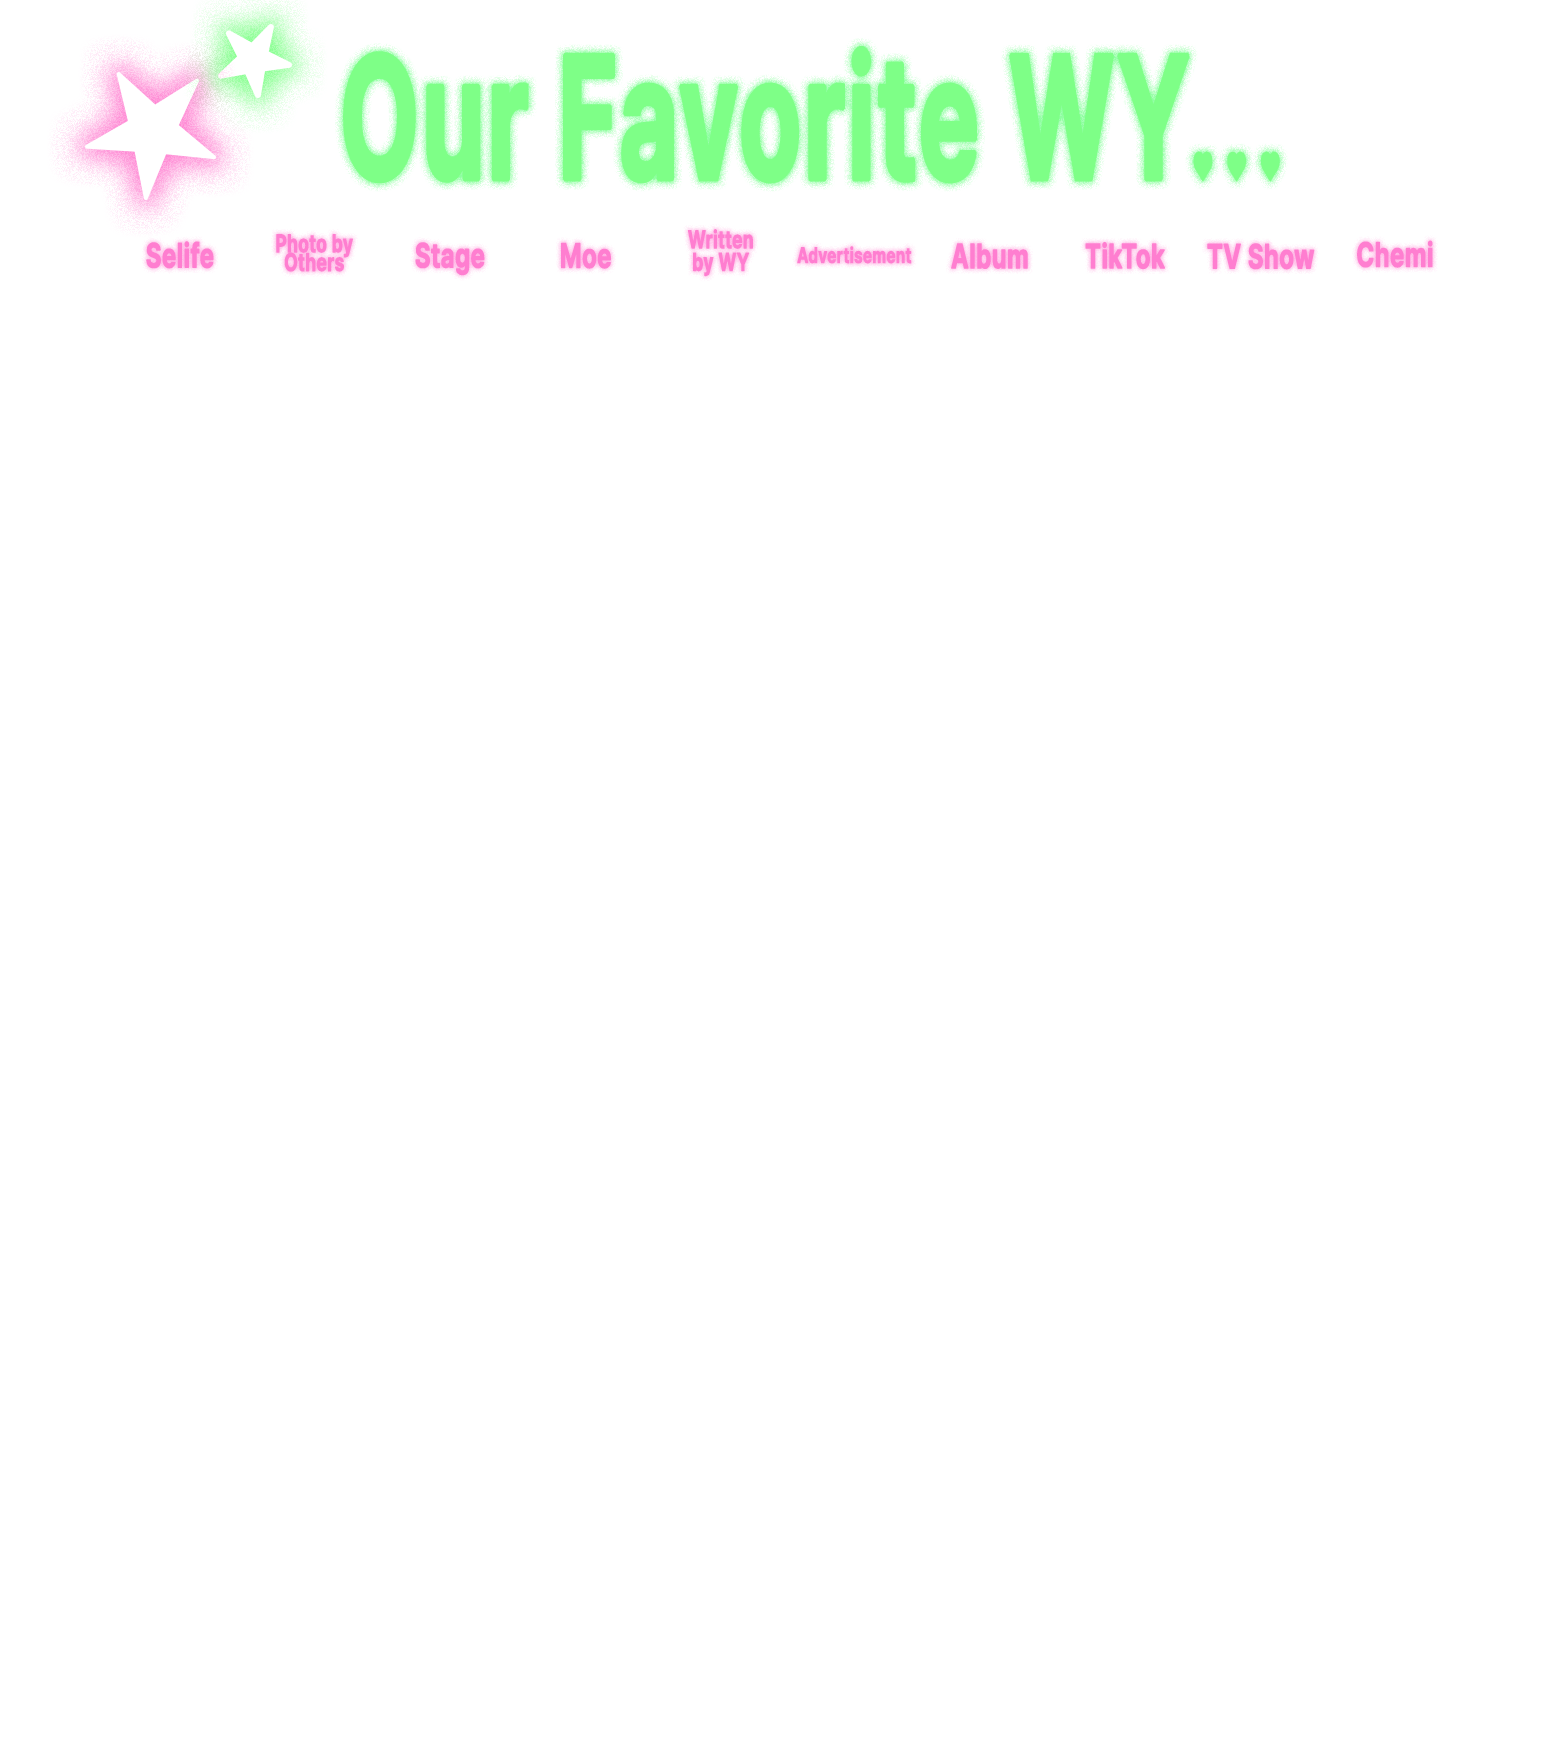
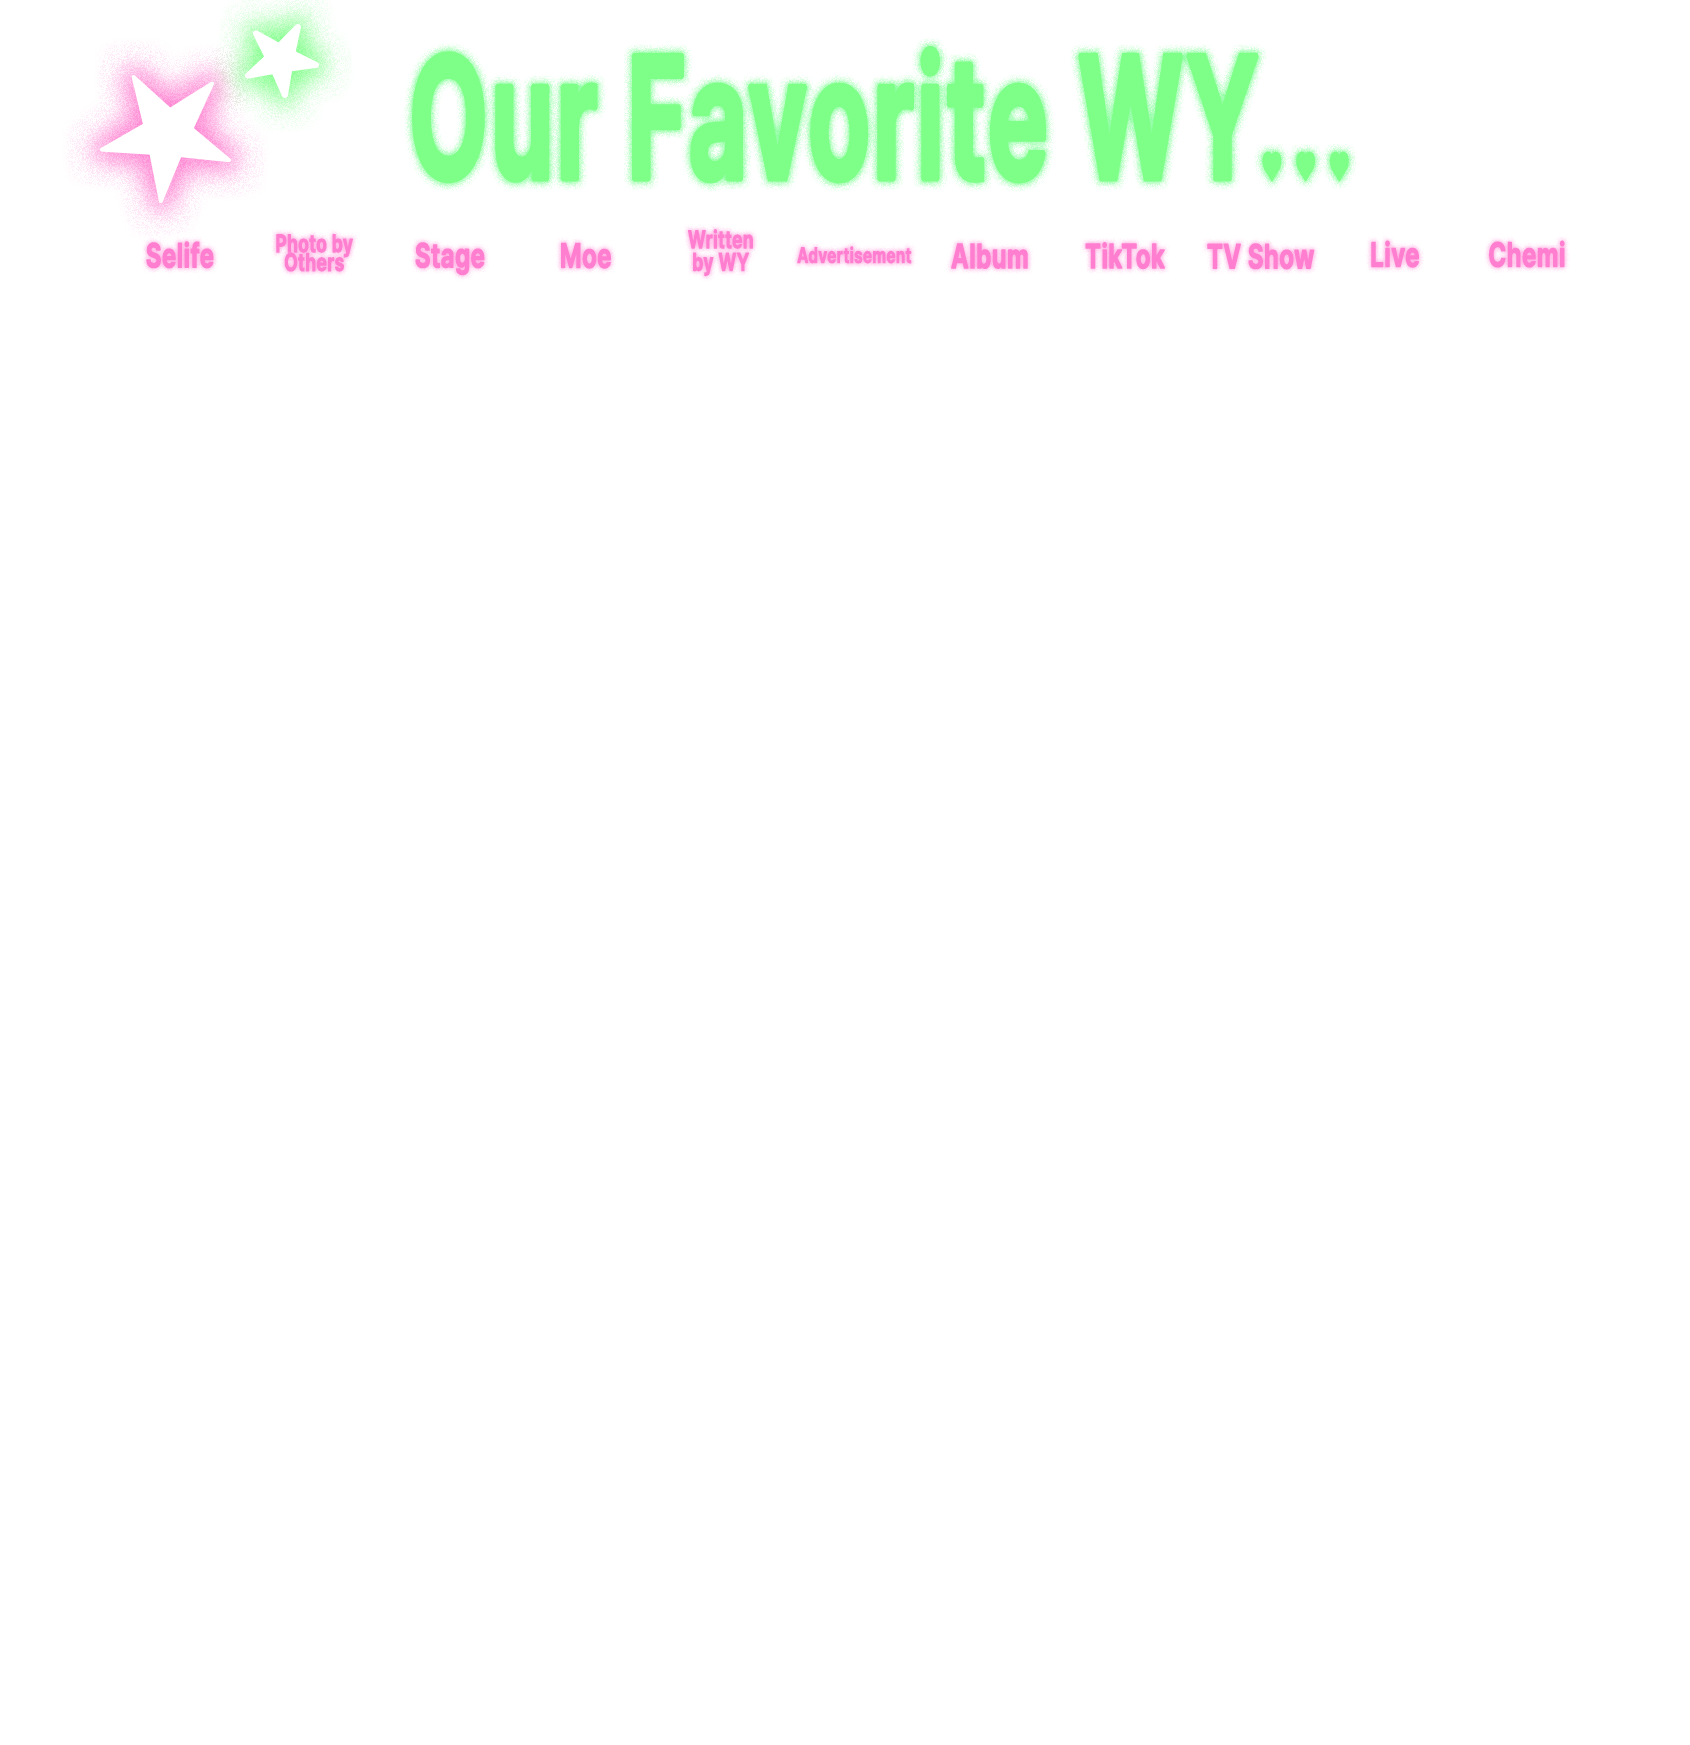
최종?

Changed region(s): [[0.0617, 0.0309, 0.926, 0.1547], [0.0309, 0.0, 0.1852, 0.0928]]

diff --git a/src/pages/SoloEditor.tsx b/src/pages/SoloEditor.tsx
@@ -15,7 +15,7 @@ import { useNavigate } from "react-router-dom";
 import imageCompression from "browser-image-compression";
 
 // Solo 전용: 총 10칸
-const SOLO_COLS = 10;
+const SOLO_COLS = 11;
 const CELL = 160;
 const GAP = 40;
 const LEFT_SIDE = 60;
@@ -485,7 +485,7 @@ export default function SoloEditor() {
 
       // 이미지 셀들 그리기
       const promises = [];
-      for (let k = 0; k < Math.min(10, images.length); k++) {
+      for (let k = 0; k < Math.min(11, images.length); k++) {
         const imageValue = images[k];
         const { wr, wc } = idxToWrap(k);
         const cellX = LEFT_SIDE + wc * (CELL + GAP);
@@ -551,7 +551,6 @@ export default function SoloEditor() {
                   whiteSpace: "pre-line",
                   overflow: "hidden",
                   color: "#000",
-                  borderRadius: 0,
                 }}
                 title={cfg.title}
               >

diff --git a/src/pages/Manual.tsx b/src/pages/Manual.tsx
@@ -79,7 +79,10 @@ export default function Manual() {
             5. [무대] 항목은 유튜브에서 아이브 무대 영상 또는 직캠의 URL을
             복사해서 붙여 넣으면 썸네일을 불러올 수 있습니다.
           </p>
-          <p>6. 작업 중인 내용이 페이지 안에서 실시간으로 공유됩니다.</p>
+          <p>
+            6. [저장] 버튼을 누르면 작업한 내용이 저장됩니다. 새로고침 시, 다른
+            팀원들이 저장한 내용이 화면에 반영됩니다.
+          </p>
           <p>7. 취향표의 배경을 선택합니다.</p>
           <p>
             8. [취향표 저장] 버튼을 클릭하여 취향표를 저장합니다. (팀원들의 작업

diff --git a/src/columnConfig.ts b/src/columnConfig.ts
@@ -116,6 +116,18 @@ export const COLUMN_CONFIGS: ColumnConfig[] = [
     allowUpload: true,
   },
   {
+    title: "라이브방송",
+    mode: "preset+upload",
+    allowUpload: true,
+    presets: [
+      { label: "241011", url: "../assets/live/y1.png" },
+      { label: "241025", url: "../assets/live/bb1.png" },
+      { label: "250614", url: "../assets/live/b1.png" },
+      { label: "250726", url: "../assets/live/b2.png" },
+      { label: "250921", url: "../assets/live/b3.png" },
+    ],
+  },
+  {
     title: "케미",
     mode: "preset+upload",
     allowUpload: true,

diff --git a/src/components/CollageBoardSingle.tsx b/src/components/CollageBoardSingle.tsx
@@ -15,7 +15,7 @@ type Props = {
   bgKey?: "bg1" | "bg2";
 };
 
-const PATTERN = [4, 4, 2]; // 4 / 4 / 2 고정
+const PATTERN = [4, 4, 3]; // 4 / 4 / 2 고정
 const MAX_COLS = 4; // 가장 긴 줄의 칸수
 
 export default function CollageBoardSingle({

diff --git a/src/components/CollageBoard.tsx b/src/components/CollageBoard.tsx
@@ -19,7 +19,7 @@ export default function CollageBoard({
   cell,
   gap,
   margins = { top: 0, bottom: 0, left: 0, right: 0 },
-  imgCols = 10,
+  imgCols = 11,
   boardWidth,
   boardHeight,
   bgKey = "bg1", // ✅ 기본값
